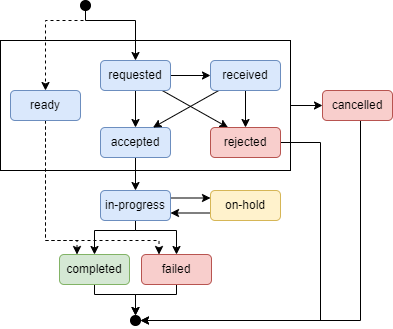
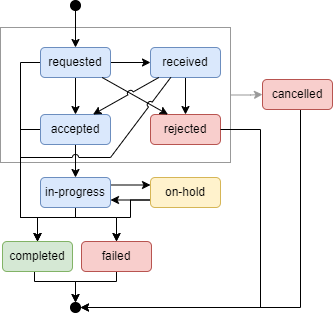
provenance verwijderd

Changed region(s): [[0.0, 0.0, 1.0, 0.9968]]

diff --git a/input/pagecontent/index.md b/input/pagecontent/index.md
@@ -5,24 +5,25 @@ Rising healthcare costs are unsustainable in the long term. By making healthcare
 Using the Dutch handover-process, it requires the initiating party to write a hand-over-letter, collect and send data. The 'receiving' party has to read this letter and decide what to do with the data; either reconciliate (copy) the data in their own system or discard the data. The receiving party is often required to send back a 'discharge' letter after treatment. The process of handovers involves a significant amount of administrative work. When two practitioners would like to collaborate (back and forth) using this handover-process, the administrative burden increases because data might be duplicated at every handover. When more than two parties are involved in a collaboration, the handover-process is even more challenging to coordinate care and relevant/up-to-date data.
 When practitioners of different organizations use the same IT-system, collaboration is often a lot easier. These systems (e.g. a regio-wide implemented EHR or a care network/collaboration platform) usually provides members of the careteam functionality to share medical records, to communicate and to coordinate/plan care activities for a patient. The downside of these systems is that every participant of the careteam has to use that same system. In The Netherlands, many care organizations participate in multiple organization-associations. Implementing an IT-system in a group of care-organizations can be challenging and often results in a lock-in with that vendor. In some organizations, different systems have been implemented for multiple organization-affiliations. This already leads to multiple care-network-platforms that a practitioner has to use, in addition to the EHR. Switching between different applications decreases productivity and practitioner-satisfaction. Using multiple (collaboration) systems also create new silo's of disconnected medical data for a patient.
 
-Shared Care Planning (SCP) provides the structures and transactions for care planning, collaboration between practitioners by cross-organizational ordering processes, data localization and authorization of members involved in the careteam of a patient. Improved collaboration between different types of care providers (e.g. GP, homecare or hospitals) should improve efficiency in hybrid or network-care settings. It should lower the administrative burden for practitioners without having to switch to auxillary collaboration-systems. For practitioners and patients, Shared Care Planning provides an overview of related activities and participants in a care plan and care team. Shared Care Planning lowers the barriers that may exists between care organisations. Cross-organization referrals, communication or data access should be as simple and obvious as a practitioner would do within a single care organization.
+Shared Care Planning (SCP) provides the structures and transactions for care planning, collaboration between practitioners by cross-organizational ordering processes, data localization and authorization of members involved in the careteam of a patient. Improved collaboration between different types of care providers (e.g. GP, homecare or hospitals) should improve efficiency in hybrid or network-care settings. It should lower the administrative burden for practitioners without having to switch to auxillary collaboration-systems. For practitioners and patients, Shared Care Planning provides an overview of related activities and participants in a care plan and care team. Shared Care Planning lowers the barriers that may exists between care organisations. Cross-organization referrals, communication or data access should be as simple and ubiquitous as a practitioner would do within a single care organization.
 
 ### Concepts
 In order to create a standard for cross-organizational workflow and data access, we'll set some guiding principles:
-- The architecture 
-- Data at the source system remains the single-point-of-truth. Data may be copied from one to the other organization, but these copies are just to reduce run-time dependencies (i.e. cache). An update should be always be applied on the original instance.
-- Shared Care Planning builds on international standards HL7 FHIR and IHE profiles. It is basically a selection of existing parts which are used to create a guide for cross-organizational workflow and data access. Shared Care Planning is not trying to extend these specifications.
+- Data at the source system remains the single-point-of-truth. Data may be copied from one to the other organization, but these copies are just to reduce operational dependencies (i.e. cache). An update should be always be applied on the original instance.
+- Shared Care Planning builds on international standards HL7 FHIR and IHE profiles. It is basically a selection (not an extension) of existing specifications which are used/combined to create a guide for cross-organizational workflow and data access.
+- Care providers should not need a central facility/platform to use Shared Care Planning. For various reasons (privacy, security, commercial, high availability) you could argue that you don't want to be dependant on a single service or vendor. Shared Care Planning should support such a federated IT landscape. 
 
-The 'care network' within Shared Care Planning is formed by a FHIR **CarePlan** that references FHIR **Tasks** and vice versa. New participants or, e.g., the FHIR endpoint of a participant can be found by using a **care services** directory. Participants of a CarePlan or Tasks are always **notified** of updates. For security and auditability, the FHIR **Provenance** resource is used to prove who or why a Task or CarePlan was updated.
+The 'care network' within Shared Care Planning is formed by a FHIR **CarePlan** that references FHIR **Tasks** and vice versa. New participants or, e.g., the FHIR endpoint of a participant can be found by using a **care services** directory. Participants of a CarePlan or Tasks are always **notified** of updates. For privacy *and security* reasons, the Patient can be asked to approve certain changes in Tasks or CarePlans.
 
 #### CarePlan
-SCP builds upon the IHE 'Dynamic Care Planning' profile ([IHE-DCP](https://wiki.ihe.net/index.php/Dynamic_Care_Planning_(DCP))). The FHIR CarePlan is used to consolidate the activities and participants for a patient. Whenever a SCP-CarePlan is created or updated, all participants are notified.
+SCP builds upon the IHE 'Dynamic Care Planning' profile ([IHE-DCP](https://wiki.ihe.net/index.php/Dynamic_Care_Planning_(DCP))). A Shared Care Planning-CarePlan (SCP-CarePlan) contains the activities (Tasks) that were used for requests/referrals in the context of one or more related conditions and/or goals. The participants of these requests are consolidated as the 'care network' of the patient. A SCP-CarePlan participant can active or inactive, depending on the state of the requests/referrals. Active participants in the SCP-CarePlan should be able to access relevant data at all other participants.
+This implementation guide does not assume a SCP-CarePlan to be the one and only CarePlan for a patient; every care provider may have a seperate detailed CarePlan or EpisodeOfCare. 
+Whenever a SCP-CarePlan is created or updated, all stakeholders are notified.
 
 #### Workflow
-Activities in the CarePlan are represented by FHIR Tasks. These Tasks are communicated between a requester and a performer using the [FHIR Workflow Mangement Communication patterns](https://hl7.org/fhir/R4/workflow-management.html). 
+Activities in the CarePlan are represented by FHIR Tasks. These Tasks are communicated between a requester and a performer using the [FHIR Workflow Management Communication patterns](https://hl7.org/fhir/R4/workflow-management.html). 
 
-The main premise of SCP is that all Tasks should refer to the same CarePlan, as long as they are related to one or more associated conditions or goals. The requesters and performers of all Tasks are consolidated as the CarePlan participants or a 'care network' of that patient. A performer shall be added as a careplan participant as soon as it accepts a SCP-Task with the intent of an order (accepting 'proposal-Tasks' does not lead to CarePlan-membership). Being participant in a CarePlan may be used for data localization and autorization (to read healthcare data from other careplan participants or to invite new participants). Whenever a SCP-Task is created or updated, all Task participants *and the CarePlan-host* are notified
-
+The main premise of SCP is that all Tasks should refer to the same CarePlan, as long as they are related to one or more associated conditions or goals. The requesters and performers of all Tasks are consolidated as the CarePlan participants or a 'care network' of that patient. A performer shall be added as a careplan participant as soon as it accepts a SCP-Task with the intent to order (accepting 'proposal-Tasks' does not lead to CarePlan-membership). The patient should be informed (using the notification framework) or should actively approve this change (using the workflow framework). Being a participant in a CarePlan may be used for data localization and autorization (to read healthcare data from other careplan participants or to invite new participants). Whenever a SCP-Task is created or updated, all Task stakeholders are notified.
 
 #### Care Services
 In order to address a (potential) performer, a directory of care services and technical endpoints is required. [IHE mobile Care Service Discovery](https://profiles.ihe.net/ITI/mCSD/ImplementationGuide/ihe.iti.mcsd|3.9.0) specifies such a directory: 
@@ -36,13 +37,7 @@ When a practitioner is creating a Task, it will query the care services director
 SCP does not specify the geographical area of a care service directory. It could cover a small region or multiple countries. A broad scope could improve collaboration between practitioners for patients that are temporarily living abroad, near country borders, suffer from a rare disease or require highly specialized care.
 
 #### Notifications
-The [FHIR Workflow Mangement Communication patterns](https://hl7.org/fhir/R4/workflow-management.html) specify that a Task could either 'live' at the requester, performer or a broker (pattern [F](https://hl7.org/fhir/R4/workflow-management.html#optionf), [G](https://hl7.org/fhir/R4/workflow-management.html#optiong) or [H](https://hl7.org/fhir/R4/workflow-management.html#optionh)). For some steps in these workflow patterns, a notification mechanism is needed (SCP does not use 'polling'; we'll come back to this later). SCP uses the [Topic-based, out-of-band/server managed subscription framework from the FHIR R6 specifications](https://build.fhir.org/subscriptions.html). In order to implement this in FHIR version R4, the [Subscriptions R5 Backport for R4](https://hl7.org/fhir/uv/subscriptions-backport/) is used. This subscription framework provides ways to create very reliable organization-to-organization communication using ordinary http-requests. This server-managed-subscription-framework does not require up-front registration of clients or subscriptions making it very flexible to address a HealthcareService, PractitionerRole or Organization.
-
-#### Provenance
-The final 'ingredient' of the Shared Care Planning specification involves a way to lookup and verify what happened in the task or careplan. The FHIR Provenance resource is used whenever an organization creates or updates a Task or CarePlan to record who or what caused the change. For example, activities and participants were added to a CarePlan caused by a specific Task instance; the Provenance resource will link the CarePlan-update to the Task. A verification signature is added to the Provenance resource to *prove* who changed the Task or CarePlan. This mitigates the security risk of malicious clients. The signature also provides a way to be flexible in where a Task or CarePlan 'lives'; it can be hosted at the requester, performer or some other broker involved in the care network of that patient. Therefore, SCP is indifferent which workflow pattern ([F](https://hl7.org/fhir/R4/workflow-management.html#optionf), [G](https://hl7.org/fhir/R4/workflow-management.html#optiong) or [H](https://hl7.org/fhir/R4/workflow-management.html#optionh)) is used; this relaxes the requirement to implement SCP at each EHR. It also provides a way to move Tasks or CarePlan from one organization to another e.g. if a care provider ceases to exist.
-The Provenance resource is used to record why and who created or updated data. It is left up to the implementor how to properly record other events to comply to local auditing requirements (e.g. ISO 27789). 
-
-
+The [FHIR Workflow Mangement Communication patterns](https://hl7.org/fhir/R4/workflow-management.html) specify that a Task could either 'live' at the requester, performer or a broker (pattern [F](https://hl7.org/fhir/R4/workflow-management.html#optionf), [G](https://hl7.org/fhir/R4/workflow-management.html#optiong) or [H](https://hl7.org/fhir/R4/workflow-management.html#optionh)). For some steps in these workflow patterns, a notification mechanism is needed (SCP does not use 'polling'; we'll come back to this later). SCP uses the [Topic-based, out-of-band/server managed subscription framework from the FHIR R6 specifications](https://build.fhir.org/subscriptions.html). In order to implement this in FHIR version R4, the [Subscriptions R5 Backport for R4](https://hl7.org/fhir/uv/subscriptions-backport/) is used. This subscription framework provides a way to create very reliable organization-to-organization communication using ordinary http-requests. This server-managed-subscription-framework does not require up-front registration of clients or subscriptions making it very flexible to create and assign a Task to a HealthcareService, PractitionerRole or Organization.
 
 ### Organization of this Implementation Guide
 

diff --git a/input/pagecontent/workflow.md b/input/pagecontent/workflow.md
@@ -28,19 +28,12 @@ More [advanced FHIR workflow patterns](https://hl7.org/fhir/R4/workflow-manageme
 
 ### Workflow in Shared Care Planning
 
-In Shared Care Planning, an advanced FHIR workflow pattern is used to cover all requirements for a generic workflow process between organizations. The process is based on [FHIR workflow pattern F](https://hl7.org/fhir/R4/workflow-management.html#optionf), but SCP nodes can also use pattern [G](https://hl7.org/fhir/R4/workflow-management.html#optiong) or [H](https://hl7.org/fhir/R4/workflow-management.html#optionh) depending on the capabilities of their healthcare systems. The main difference between these 3 patterns (F, G and H) is the location of the Task; it can be stored at the requester, performer or at a third party (broker). For example; if you'd want to create a request, but your EHR does not support it, you may choose to create a Task at the performer (and thus following pattern [G](https://hl7.org/fhir/R4/workflow-management.html#optiong) in stead of [F](https://hl7.org/fhir/R4/workflow-management.html#optionf)). SCP uses [notifications](./notification.md) in between nodes to provide quick feedback/updates in initial phase of a Task (creation to acceptance/rejectance).
-
-#### Task workflow Option F: Creation of Task on requester's system
-<div>
-{% include workflow-base-f.svg %}
-</div>
+In Shared Care Planning, an advanced FHIR workflow pattern is used to cover all requirements for a generic workflow process between organizations. The process is based on [FHIR workflow pattern G](https://hl7.org/fhir/R4/workflow-management.html#optiong), but SCP nodes can also use pattern [F](https://hl7.org/fhir/R4/workflow-management.html#optionf) or [H](https://hl7.org/fhir/R4/workflow-management.html#optionh) depending on the capabilities of their healthcare systems. The main difference between these 3 patterns (F, G and H) is the location of the Task; it can be stored at the requester, performer or at a third party (broker). For example; if you'd want to create a Task at the performer, but their EHR does not support it, you may choose to create a Task at your own EHR and notify the performer (and thus following pattern [F](https://hl7.org/fhir/R4/workflow-management.html#optionf) in stead of [G](https://hl7.org/fhir/R4/workflow-management.html#optiong)). SCP uses [notifications](./notification.md) in between nodes to provide quick feedback/updates in initial phase of a Task (creation to acceptance/rejectance).
 
 #### Task workflow Option G: Creation of Task on performer's system
 <div>
 {% include workflow-base-g.svg %}
 </div>
-
-
 
 #### Notification of stakeholders
 If a SCP-Task is created/updated, participating organizations MUST be notified of this change. 
@@ -49,24 +42,41 @@ Stakeholders may have a ***role*** in the Task. For example, an external care pr
 
 Stakeholders may also host instances that are ***referenced*** in the Task (e.g. an external CarePlan in Task.basedOn, an external ServiceRequest in Task.focus or an external Task in Task.partOf). The base-url in the literal reference may be used to find the notification-endpoint.
 
-#### Provenance
-If a SCP-Task is (sucessfully) created/updated, the client SHALL create a Provenance resource for this Task-version containing a verification signature. The SCP-Task instance may be used to infer a relationship between care provider and patient (and implicit treatment/data access consent). To mitigate security risks (care providers that are compromised) stakeholders should be able to verify the trustworthiness of the initial (requester) and latest version of the Task (owner/performer).
 
-#### Authorization
+#### Task state and lifecycle
+The Task status and state transitions are important part in the lifecycle of a Task.
+The Task state machine for SCP is a subset of the [base FHIR Task state machine](https://hl7.org/fhir/R4/task.html#statemachine). In comparison to base FHIR Task state machine, the SCP-Task does not use status 'draft' or state 'ready', but does allows states-transition and from 'requested to completed: 
+
+<img src="Task-state-machine.png" width="32%" style="float: none"/>
+
+|State from|State to|Allow state transition for|
+|-|-|-|
+|-|requested|Task.requestor who is also CarePlan-participant|
+|requested|received, accepted, rejected, cancelled, in-progress, completed, failed|Task.owner|
+|received|accepted, rejected, cancelled, in-progress, completed, failed|Task.owner|
+|accepted|cancelled, in-progress, completed, failed|Task.owner|
+|in-progress|completed, failed, on-hold|Task.owner|
+|on-hold|in-progress, completed, failed|Task.owner|
+{:.grid .table-hover}
+
 An SCP-Task can only be created by the requester. Tasks can only be updated by the owner/performer. However, some elements SHALL not be updated by the performer, depending on the Task.intent. This table indicates the elements a performer can ***update*** (immutability is the default):
 
-| Mutable elements | notes                                                                                                                       |
-|------------------|-----------------------------------------------------------------------------------------------------------------------------|
-| status           | changing status to `requested` is prohibited                                                                                |
-| statusReason     | -                                                                                                                           |
-| businessstatus   | -                                                                                                                           |
-| executionPeriod  | if intent = `order` and the status is updated to `received` or `accepted`, the  executionPeriod should ***not*** be updated |
-| lastModified     | -                                                                                                                           |
-| owner            | the owner may be changed to an entity within current organization                                                           |
-| location         | -                                                                                                                           |
-| note             | -                                                                                                                           |
-| relevantHistory  | -                                                                                                                           |
-| output           | -                                                                                                                           |
+| Mutable elements | notes |
+|-|-|
+| status | changing status to `requested` is prohibited|
+| statusReason | - |
+| businessstatus | - |
+| executionPeriod| if intent = `order` and the status is updated to `received` or `accepted`, the executionPeriod should ***not*** be updated |
+| lastModified | - |
+| owner| the owner may be changed to an entity within current organization |
+| location | - |
+| note | - |
+| relevantHistory| - |
+| output | - |
+{:.grid .table-hover}
+
+To avoid losing data during updates, actors MUST support the directives in [FHIR transactional integrity](http://hl7.org/fhir/R4/http.html#transactional-integrity) and [FHIR concurrency](https://hl7.org/fhir/R4/http.html#concurrency)
+
 
 #### Using planned Tasks
 When a requester sets Task.intent to `plan`, it may use this to find the care organization that is able to perform the Task closest to the Patient or at the earliest date (by changing the executionPeriod). 
